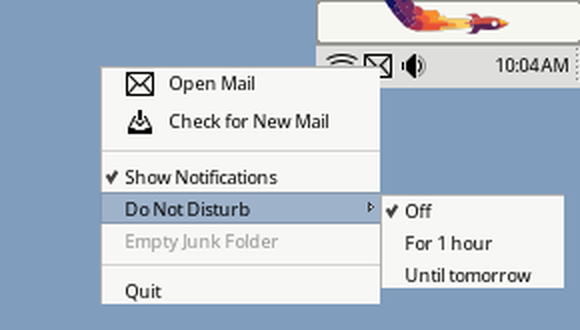
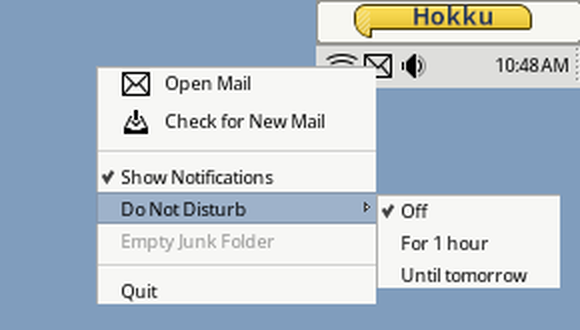
README: the Deskbar shots with the Gonx menu button

diff --git a/README.md b/README.md
@@ -34,7 +34,7 @@ Electron apps (Signal, Slack...), VPN clients, update notifiers. Deskbar starts 
 (`src/apps/traybridge`), a StatusNotifierItem host, which puts each icon in the tray as a
 replicant.
 
-![Deskbar's tray on sway with the Gonx look: three tray icons and the tooltip of the mail icon](docs/screenshots/deskbar-tray-tooltip.png)
+![Deskbar's tray on sway with the Gonx look: the Gonx menu button, three tray icons and the tooltip of the mail icon](docs/screenshots/deskbar-tray-tooltip.png)
 
 ![The mail icon's menu, sent by the app over D-Bus: icons, a checkmark, a disabled entry and a submenu of radio items](docs/screenshots/deskbar-menu.png)
 
@@ -107,6 +107,8 @@ and an alert in the Gonx border.
 - **Controls.** `GonxControlLook.so`, a control look add-on like the Be, Flat and dark ones,
   draws buttons, check boxes, sliders, scroll bars and tabs. It is the same code as the
   Renku add-on; `setcontrollook` can choose it on its own.
+- **Deskbar.** The menu button shows a small Gonx tab with "Hokku" on it instead of the
+  Cosmoe rocket (`src/apps/deskbar/gonx-logo.py` draws it).
 - **Colours, fonts, desktop.** `gonx-theme` sets them through the usual Haiku calls, which
   Hokku now keeps (see Desktop integration below). The fonts are Noto Sans at 9 and 11 points.
 
